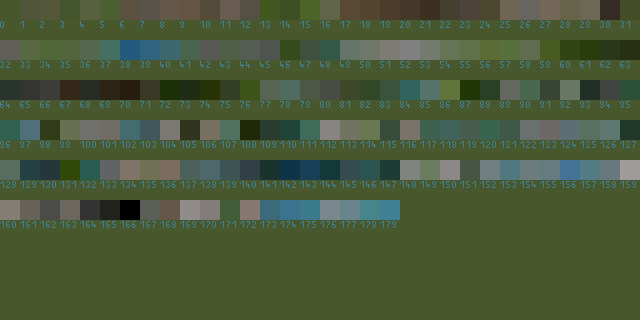
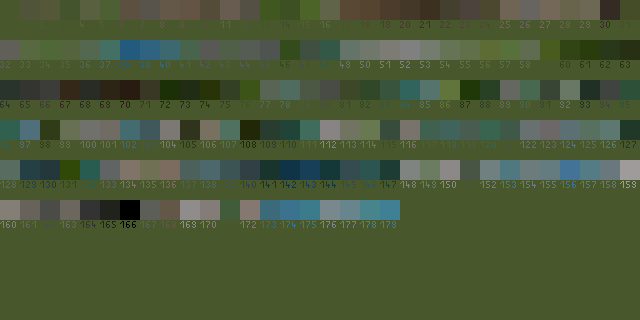
add JASC-PAL support

diff --git a/tools/convert_palette_to_pal.c b/tools/convert_palette_to_pal.c
@@ -1,0 +1,44 @@
+#include <exdevgfx/exdev_base.h>
+#include <exdevgfx/palette.h>
+
+#define EXDEVGFX2_LOG_LEVEL 1
+
+#include <exdevgfx/logger.h>
+
+int main(int argc, char **argv) {
+    // parse args
+    if (argc != 3) {
+        printf("usage: convert_palette_to_pal: <in.dat> <out.pal>\n");
+        return 0;
+    }
+    const char *infile = argv[1];
+    const char *outfile = argv[2];
+
+    int res = exdev_base_init();
+    if (res) {
+        log_warning_fmt("could no init exdev base: %d", res);
+        return 1;
+    }
+
+    // load palette
+    Palette8Bit_t p;
+    log_info_fmt("try reading palette from: %s", infile);
+    res = palette_8bit_read_from_dat(&p, infile);
+    if (res) {
+        log_warning_fmt("could not read palette, res: %d", res);
+        return 2;
+    }
+    log_info_fmt("number of pens: %d", p.numPens);
+
+    res = palette_save_as_pal(&p,outfile);
+    if (res) {
+        log_warning("could not save pal");
+    } else {
+        log_info_fmt("saved pal to: %s", outfile);
+    }
+
+    // clean up
+    exdev_base_deinit();
+
+    return 0;
+}

diff --git a/library/src/palette.c b/library/src/palette.c
@@ -11,6 +11,7 @@
 
 #include <assert.h>
 #include <stdio.h>
+#include <string.h>
 
 const Pen_t PEN_BLACK = {0, 0, 0};
 const Pen_t PEN_WHITE = {PEN_MAX, PEN_MAX, PEN_MAX};
@@ -154,6 +155,37 @@ int palette_8bit_save_as_dat(const Palette8Bit_t *p, const char *path) {
             fclose(fp);
             return 4;
         }
+    }
+
+    fclose(fp);
+    return 0;
+}
+
+#define PAL_HEADER "JASC-PAL\r\n0100\r\n"
+
+int palette_save_as_pal(const Palette8Bit_t *p, const char *path) {
+    assert(p);
+    assert(path);
+
+    FILE *fp;
+    fp = fopen(path, "w");
+    if (!fp) {
+        log_warning_fmt("could not open file=%s", path);
+        return 1;
+    }
+
+    char s[128];
+    memset(s, 0, 128);
+    fwrite(PAL_HEADER, strlen(PAL_HEADER), 1, fp);
+
+    sprintf(s, "%d\r\n", p->numPens);
+    fwrite(s, strlen(s), 1, fp);
+
+    ColorRGB_t c;
+    for (int i = 0; i < p->numPens; ++i) {
+        pen_to_color_rgb(palette_8bit_get_pen_const(p, i), &c);
+        sprintf(s, "%d %d %d\r\n", c.r, c.g, c.b);
+        fwrite(s, strlen(s), 1, fp);
     }
 
     fclose(fp);

diff --git a/tools/render_palette_to_pgm.c b/tools/render_palette_to_pgm.c
@@ -18,7 +18,7 @@
 int main(int argc, char **argv) {
     // parse args
     if (argc != 3) {
-        printf("usage: convert_palette_to_pgm: <palette> <pgm>\n");
+        printf("usage: render_palette_to_pgm: <in.dat> <out.pgm>\n");
         return 0;
     }
     const char *infile = argv[1];
@@ -64,7 +64,7 @@ int main(int argc, char **argv) {
                                        &mia1,
                                        text,
                                        strlen(text),
-                                       p.numPens - 1,
+                                       pos,
                                        col * PEN_WIDTH,
                                        row * (PEN_HEIGHT + PEN_HEIGHT) + PEN_HEIGHT + 1);
         }

diff --git a/library/include/exdevgfx/palette.h b/library/include/exdevgfx/palette.h
@@ -59,4 +59,5 @@ int palette_8bit_save_as_dat(const Palette8Bit_t *p, const char *path);
 
 int palette_8bit_read_from_dat(Palette8Bit_t *p, const char *path);
 
+int palette_save_as_pal(const Palette8Bit_t *p, const char *path);
 #endif //EXDEVGFX2_PALETTE_H
